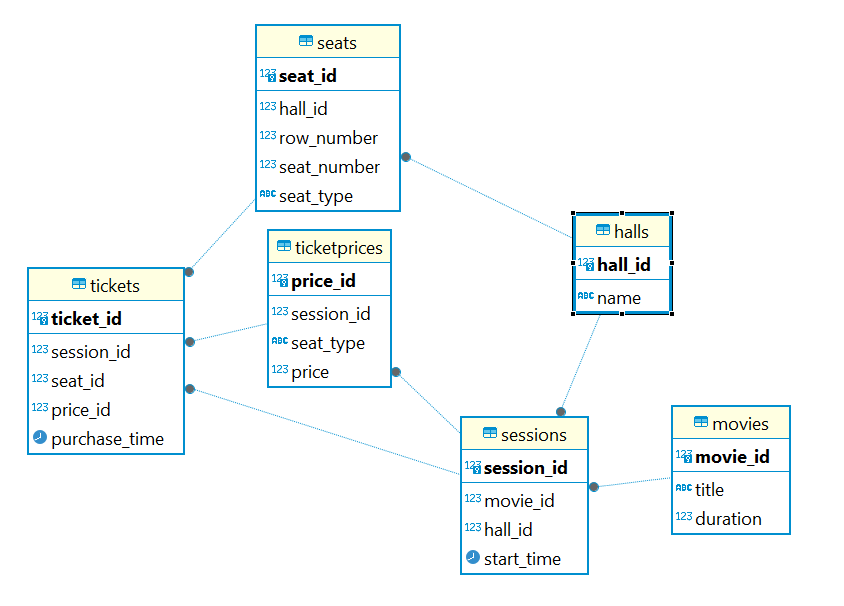
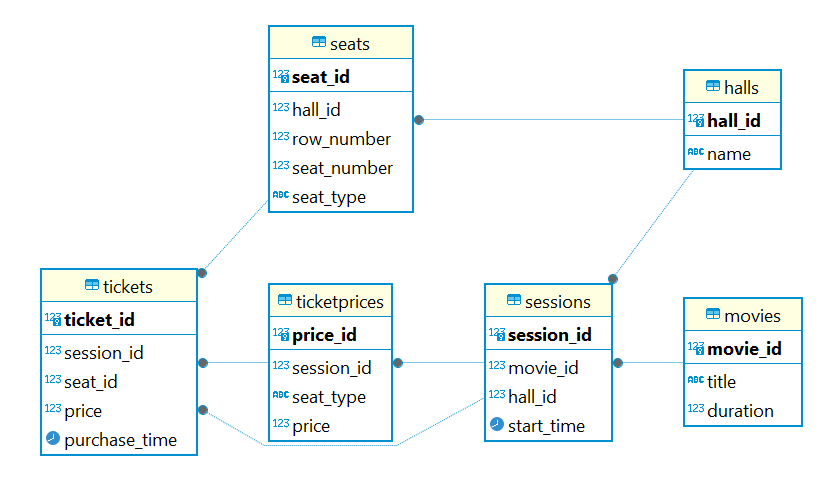
uml, ddl, sql запрос

diff --git a/README.md b/README.md
@@ -1,3 +1,5 @@
 # PHP_2025
 
 https://otus.ru/lessons/razrabotchik-php/?utm_source=github&utm_medium=free&utm_campaign=otus
+
+Подразумевается, что в таблицу tickets в поле prices записывается цена пробитая при покупке билета
